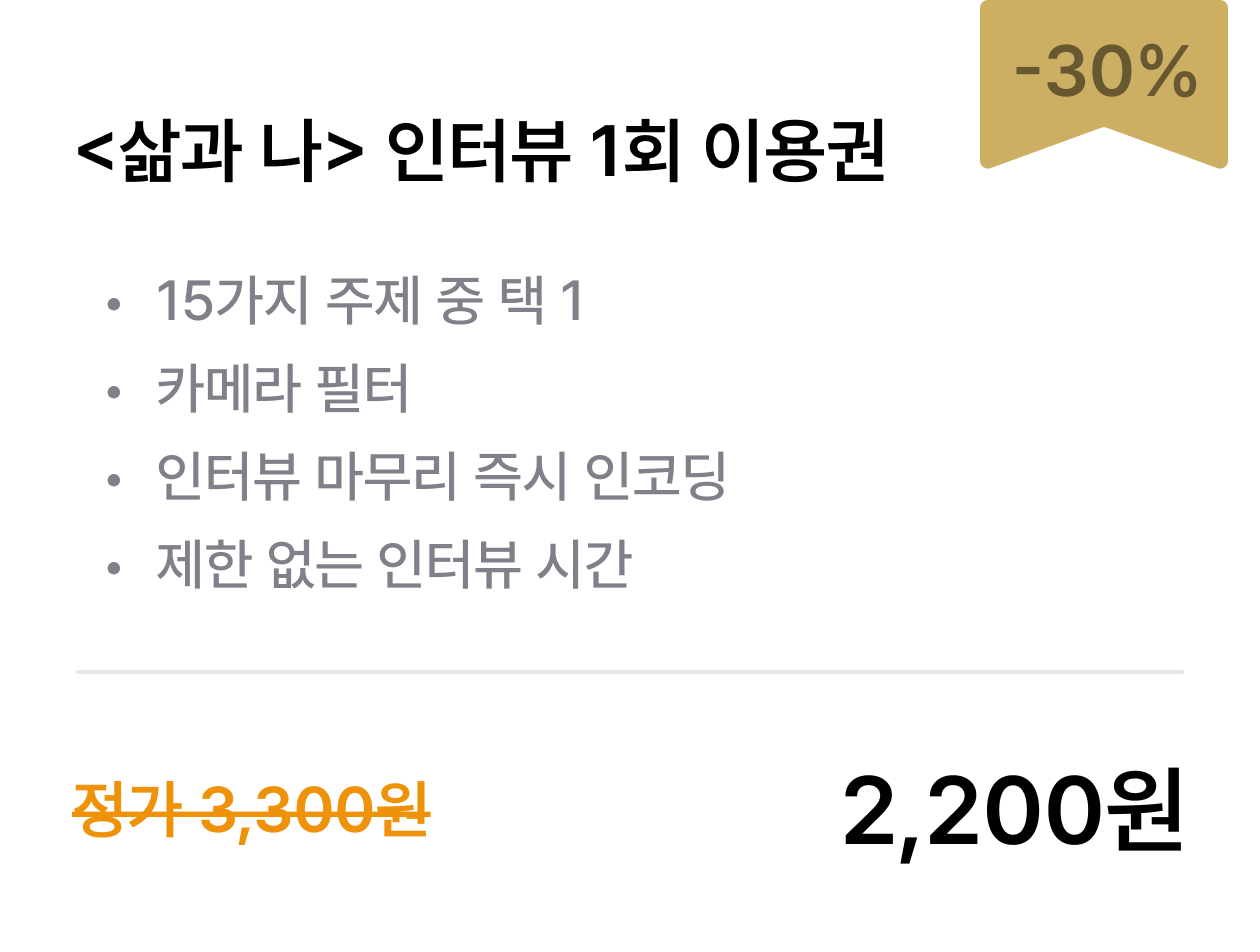
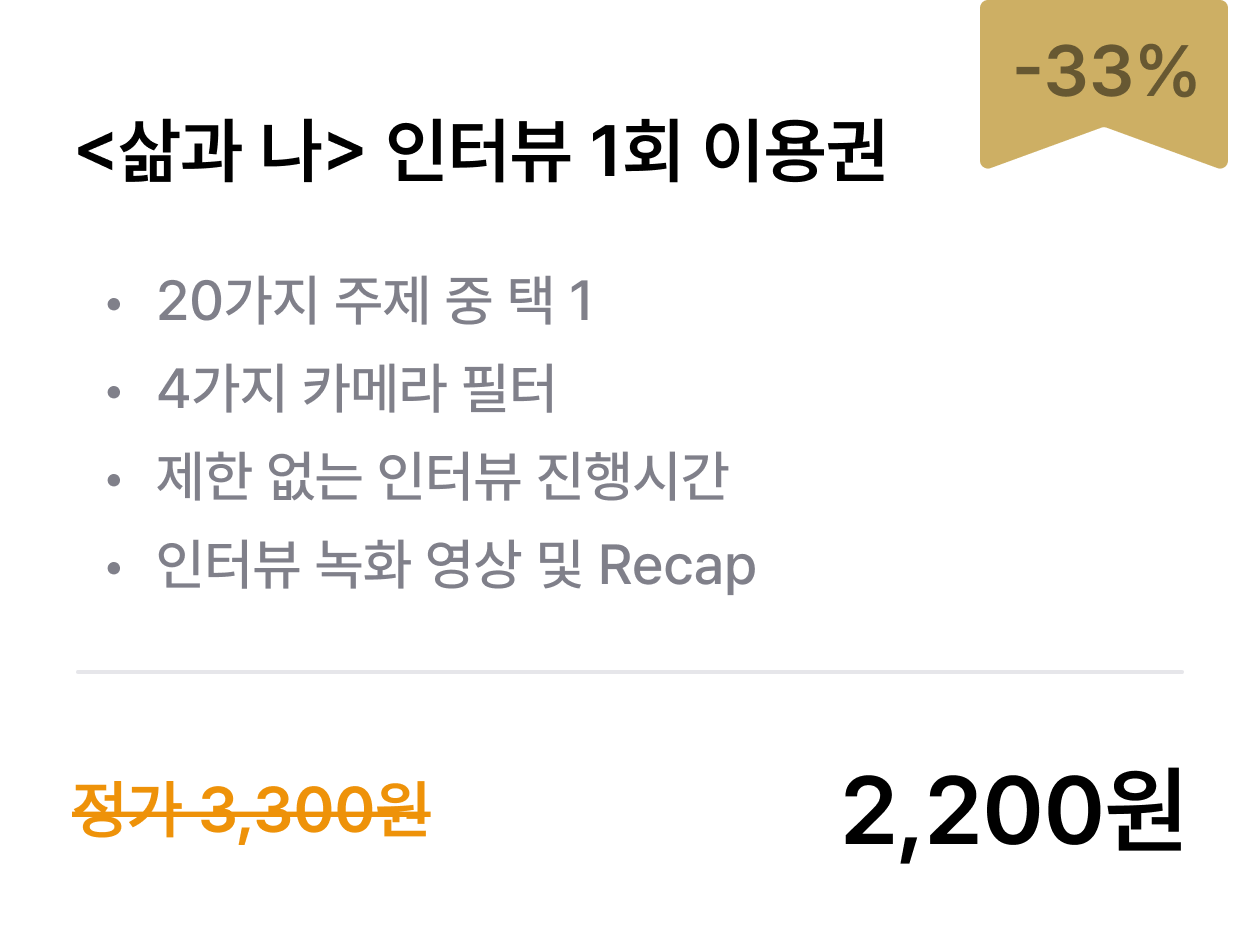
변경사항 반영

Changed region(s): [[0.1238, 0.3655, 0.619, 0.6397], [0.1238, 0.2742, 0.4643, 0.3351], [0.8667, 0.0609, 0.8976, 0.0914]]

diff --git a/app/landing/v2/payment/page.tsx b/app/landing/v2/payment/page.tsx
@@ -154,7 +154,7 @@ function Step1(props: { onComplete: () => void }) {
         placeholder="성함을 정확하게 입력해주세요"
         defaultValue=""
         suppressHydrationWarning
-        className="bg-grayscale-700 rounded-[8px] h-[48px] text-white text-body3 text-[16px] px-[16px] py-[13px] border border-transparent placeholder-grayscale-500 placeholder-body3 focus:border-grayscale-200 focus:outline-none focus:ring-0"
+        className="bg-grayscale-700 rounded-[8px] h-[48px] text-white text-body3 !text-[16px] px-[16px] py-[13px] border border-transparent placeholder-grayscale-500 placeholder-body3 focus:border-grayscale-200 focus:outline-none focus:ring-0"
         onInput={(e: React.ChangeEvent<HTMLInputElement>) =>
           setName(e.target.value)
         }
@@ -171,7 +171,7 @@ function Step1(props: { onComplete: () => void }) {
         placeholder="01012345678"
         defaultValue=""
         suppressHydrationWarning
-        className="bg-grayscale-700 rounded-[8px] h-[48px] text-white text-body3 text-[16px] px-[16px] py-[13px] border border-transparent placeholder-grayscale-500 placeholder-body3 focus:border-grayscale-200 focus:outline-none focus:ring-0"
+        className="bg-grayscale-700 rounded-[8px] h-[48px] text-white text-body3 !text-[16px] px-[16px] py-[13px] border border-transparent placeholder-grayscale-500 placeholder-body3 focus:border-grayscale-200 focus:outline-none focus:ring-0"
         onInput={(e: React.ChangeEvent<HTMLInputElement>) =>
           setPhoneNumber(e.target.value)
         }
@@ -267,9 +267,20 @@ function Step2(props: {
 }) {
   const [isCopied, setIsCopied] = useState(false);
   const copyTimeout = useRef<NodeJS.Timeout | null>(null);
+  const [isMobile, setIsMobile] = useState(false);
   const [selectedMethod, setSelectedMethod] = useState<
     "toss" | "kakao" | "directly" | null
   >("kakao");
+
+  useEffect(() => {
+    // 모바일 환경 체크
+    const isMobile =
+      /Android|webOS|iPhone|iPad|iPod|BlackBerry|IEMobile|Opera Mini/i.test(
+        navigator.userAgent
+      );
+
+    setIsMobile(isMobile);
+  }, []);
 
   const onClickCopy = (e: React.MouseEvent<HTMLDivElement>) => {
     e.preventDefault();
@@ -289,11 +300,6 @@ function Step2(props: {
   const payActions = {
     none: () => {},
     toss: () => {
-      // 모바일 환경 체크
-      const isMobile =
-        /Android|webOS|iPhone|iPad|iPod|BlackBerry|IEMobile|Opera Mini/i.test(
-          navigator.userAgent
-        );
       if (!isMobile) {
         alert("선택하신 결제 수단은 모바일에서만 이용할 수 있습니다");
         return;
@@ -307,11 +313,6 @@ function Step2(props: {
       }, 1000);
     },
     kakao: () => {
-      // 모바일 환경 체크
-      const isMobile =
-        /Android|webOS|iPhone|iPad|iPod|BlackBerry|IEMobile|Opera Mini/i.test(
-          navigator.userAgent
-        );
       if (!isMobile) {
         alert("선택하신 결제 수단은 모바일에서만 이용할 수 있습니다");
         return;
@@ -368,7 +369,7 @@ function Step2(props: {
             <CircleToggle isActive={selectedMethod === "kakao"} />
             <span className="text-body2 text-grayscale-100">카카오</span>
             <span className="text-caption1 text-grayscale-white bg-grayscale-700 rounded-[11px] px-[12px] py-[2px]">
-              모바일에서만 가능해요
+              {isMobile ? "원클릭으로 쉽게 송금하기" : "모바일에서만 가능해요"}
             </span>
           </div>
         </div>
@@ -381,7 +382,7 @@ function Step2(props: {
             <CircleToggle isActive={selectedMethod === "toss"} />
             <span className="text-body2 text-grayscale-100">토스</span>
             <span className="text-caption1 text-grayscale-white bg-grayscale-700 rounded-[11px] px-[12px] py-[2px]">
-              모바일에서만 가능해요
+              {isMobile ? "원클릭으로 쉽게 송금하기" : "모바일에서만 가능해요"}
             </span>
           </div>
         </div>
@@ -406,9 +407,7 @@ function Step2(props: {
                   {isCopied ? "완료" : "복사"}
                 </div>
               </div>
-              <div
-                className={`text-body2 text-grayscale-300`}
-              >
+              <div className={`text-body2 text-grayscale-300`}>
                 계좌로 입금해주세요.
               </div>
             </div>

diff --git a/app/landing/v2/(components)/qrSection.tsx b/app/landing/v2/(components)/qrSection.tsx
@@ -1,0 +1,107 @@
+import { AnimatePresence, motion } from "framer-motion";
+import { useEffect, useState } from "react";
+import Image from "next/image";
+
+export default function QRSection(props: { referralCode?: string }) {
+  const [currentIndex, setCurrentIndex] = useState(0);
+
+  useEffect(() => {
+    const interval = setInterval(() => {
+      setCurrentIndex((prevIndex) => (prevIndex + 1) % filteredImages.length);
+    }, 2000); // 1초마다 이미지 변경
+    return () => clearInterval(interval);
+  }, [props.referralCode]);
+
+  const images = [
+    {
+      referral: "GA",
+      src: "/images/landing-demo-ga.jpg",
+      alt: "데모 이미지",
+      className: "object-cover rounded-[8px]",
+    },
+    {
+      referral: "GA",
+      src: "/images/guide-qr-example.png", // QR 이미지 파일 경로로 변경하세요.
+      alt: "QR 이미지",
+      className: "object-contain p-[35px]",
+    },
+    {
+      referral: "JS",
+      src: "/images/landing-demo-js.jpg",
+      alt: "데모 이미지",
+      className: "object-cover rounded-[8px]",
+    },
+    {
+      referral: "JS",
+      src: "/images/guide-qr-example.png", // QR 이미지 파일 경로로 변경하세요.
+      alt: "QR 이미지",
+      className: "object-contain p-[35px]",
+    },
+    {
+      referral: "JM",
+      src: "/images/landing-demo-jm.jpg",
+      alt: "데모 이미지",
+      className: "object-cover rounded-[8px]",
+    },
+    {
+      referral: "JM",
+      src: "/images/guide-qr-example.png", // QR 이미지 파일 경로로 변경하세요.
+      alt: "QR 이미지",
+      className: "object-contain p-[35px]",
+    },
+    {
+      referral: "HS",
+      src: "/images/landing-demo-hs.jpg",
+      alt: "데모 이미지",
+      className: "object-cover rounded-[8px]",
+    },
+    {
+      referral: "HS",
+      src: "/images/guide-qr-example.png", // QR 이미지 파일 경로로 변경하세요.
+      alt: "QR 이미지",
+      className: "object-contain p-[35px]",
+    },
+  ];
+
+  // props로 주어진 referral code와 동일한 referral을 가진 이미지 제외
+  const filteredImages = images.filter(
+    (image) => image.referral !== props.referralCode
+  );
+
+  return (
+    <div className="flex flex-col items-center w-full">
+      <div className="text-head1 text-grayscale-white flex flex-col items-center">
+        <span>그리고 인터뷰가 끝나면 바로</span>
+        <span>영상을 QR로 받아볼 수 있어요</span>
+      </div>
+
+      <div className="h-[24px]" />
+
+      <div className="relative w-[270.2px] h-[152px]">
+        <AnimatePresence mode="wait">
+          <motion.div
+            key={filteredImages[currentIndex].src}
+            initial={{ opacity: 0 }}
+            animate={{ opacity: 1 }}
+            exit={{ opacity: 0 }}
+            transition={{ duration: 0.5 }}
+            className="absolute top-0 left-0 w-full h-full"
+          >
+            <Image
+              src={filteredImages[currentIndex].src}
+              alt={filteredImages[currentIndex].alt}
+              fill
+              className={filteredImages[currentIndex].className}
+            />
+          </motion.div>
+        </AnimatePresence>
+      </div>
+
+      <div className="h-[18px]" />
+
+      <div className="text-body4 text-grayscale-500">
+        인터뷰 정리본도 함께 드려요
+      </div>
+    </div>
+  );
+}

diff --git a/app/landing/v2/pricing/page.tsx b/app/landing/v2/pricing/page.tsx
@@ -57,7 +57,7 @@ export default function Page() {
       <div className="h-[32px]" />
 
       <div className="text-head3 text-grayscale-white w-full pl-[16px]">
-        아직 고민된다면?
+      아직 고민중인 당신이 꼭 봐야할 것👇
       </div>
 
       <div className="h-[16px]" />
@@ -68,7 +68,7 @@ export default function Page() {
           router.push("/landing/v2/story");
         }}
       >
-        오브의 첫 탄생 영상 보러가기
+        오브의 탄생 배경, 지금 확인하기
       </button>
 
       <div className="h-[32px]" />
@@ -80,11 +80,11 @@ function Headline() {
   return (
     <div className="flex flex-col items-center w-full">
       <div className="text-head1 text-grayscale-white mb-[16px]">
-        오브에서 인터뷰를 경험해보세요
+        오브에서만 경험할 수 있어요
       </div>
 
       <div className="text-body2 text-grayscale-400">
-        나 스스로를 알아보는 일, 혼자라면 하지 않을 거예요
+        나 스스로를 알아보는 일, <span className="text-grayscale-white">혼자라면 하지 않을 거예요</span>
       </div>
       <div className="text-body2 text-grayscale-400">
         오브와 그 시작을 함께 해요
@@ -119,10 +119,10 @@ function OneTimeTicket(props: { onClickBuyTicket: () => void }) {
       </div>
 
       <div className="flex flex-col text-body4 text-grayscale-500">
-        <span>&nbsp;&middot; 15가지 주제 중 택 1</span>
+        <span>&nbsp;&middot; 20가지 주제 중 택 1</span>
         <span>&nbsp;&middot; 4가지 카메라 필터</span>
-        <span>&nbsp;&middot; 인터뷰 마무리 즉시 인코딩</span>
-        <span>&nbsp;&middot; 제한 없는 인터뷰 시간</span>
+        <span>&nbsp;&middot; 제한 없는 인터뷰 진행시간</span>
+        <span>&nbsp;&middot; 인터뷰 녹화 영상 및 Recap</span>
       </div>
     </div>
   );
@@ -163,11 +163,10 @@ function PackageTicket(props: { onClickBuyTicket: () => void }) {
       </div>
 
       <div className="flex flex-col text-body4 text-grayscale-500">
-        <span>&nbsp;&middot; 15가지 주제 평생 소장 및 이용</span>
+        <span>&nbsp;&middot; 20가지 주제 평생 소장 및 이용</span>
         <span>&nbsp;&middot; 4가지 카메라 필터</span>
-        <span>&nbsp;&middot; 인터뷰 마무리 즉시 인코딩</span>
-        <span>&nbsp;&middot; 녹화 영상 다운로드</span>
-        <span>&nbsp;&middot; 제한 없는 인터뷰 시간</span>
+        <span>&nbsp;&middot; 제한 없는 인터뷰 진행시간</span>
+        <span>&nbsp;&middot; 인터뷰 녹화 영상 및 Recap</span>
       </div>
     </div>
   );

diff --git a/app/landing/v2/(components)/worrySection.tsx b/app/landing/v2/(components)/worrySection.tsx
@@ -30,26 +30,26 @@ export default function WorrySection() {
 
       <div className="flex flex-col items-center text-body4 text-grayscale-200 w-full max-w-[384px] gap-[22px] px-[16px]">
         <div className="flex flex-row w-full">
-          <span className={`bg-grayscale-700 rounded-[8px] p-[12px] ${scrolling ? "animate-shake-1" : ""}`}>
+          <span className={`bg-grayscale-700 rounded-[8px] p-[12px] transition-all ${scrolling ? "animate-shake-1 text-grayscale-800 bg-grayscale-400" : ""}`}>
             요즘 나를 가장 힘들게 하는 것은?
           </span>
           <span className="grow" />
         </div>
         <div className="flex flex-row w-full">
           <span className="grow" />
-          <span className={`bg-grayscale-800 rounded-[8px] p-[12px] ${scrolling ? "animate-shake-0.7" : ""}`}>
+          <span className={`bg-grayscale-800 rounded-[8px] p-[12px] transition-all ${scrolling ? "animate-shake-0.7 text-grayscale-800 bg-grayscale-200" : ""}`}>
             최근 행복하다고 느꼈던 상황은 언제였나요?
           </span>
         </div>
         <div className="flex flex-row w-full">
-          <span className={`bg-grayscale-700 rounded-[8px] p-[12px] ${scrolling ? "animate-shake-1.2" : ""}`}>
+          <span className={`bg-grayscale-700 rounded-[8px] p-[12px] transition-all ${scrolling ? "animate-shake-1.2 text-grayscale-800 bg-grayscale-400" : ""}`}>
             과거로 돌아갈 수 있다면 언제로 돌아가고 싶나요?
           </span>
           <span className="grow" />
         </div>
         <div className="flex flex-row w-full">
           <span className="grow" />
-          <span className={`bg-grayscale-800 rounded-[8px] p-[12px] ${scrolling ? "animate-shake-0.9" : ""}`}>
+          <span className={`bg-grayscale-800 rounded-[8px] p-[12px] transition-all ${scrolling ? "animate-shake-0.9 text-grayscale-800 bg-grayscale-200" : ""}`}>
             내일 죽는다면 오늘은 무엇을 하고 싶은가요?
           </span>
         </div>

diff --git a/app/landing/v2/page.tsx b/app/landing/v2/page.tsx
@@ -22,6 +22,7 @@ import PeopleExampleSection from "./(components)/peopleExampleSection";
 import BirthstorySection from "./(components)/birthstorySection";
 import { cn } from "@/lib/utils";
 import { useSidebar } from "./sidebarContext";
+import QRSection from "./(components)/qrSection";
 
 export default function Page() {
   const videoRef = useRef<HTMLVideoElement | null>(null);
@@ -182,6 +183,10 @@ export default function Page() {
           router.push("/landing/v2/pricing");
         }}
       />
+
+      <div className="h-[100px]" />
+
+      <QRSection referralCode={referralCode} />
 
       <div className="h-[100px]" />
 
